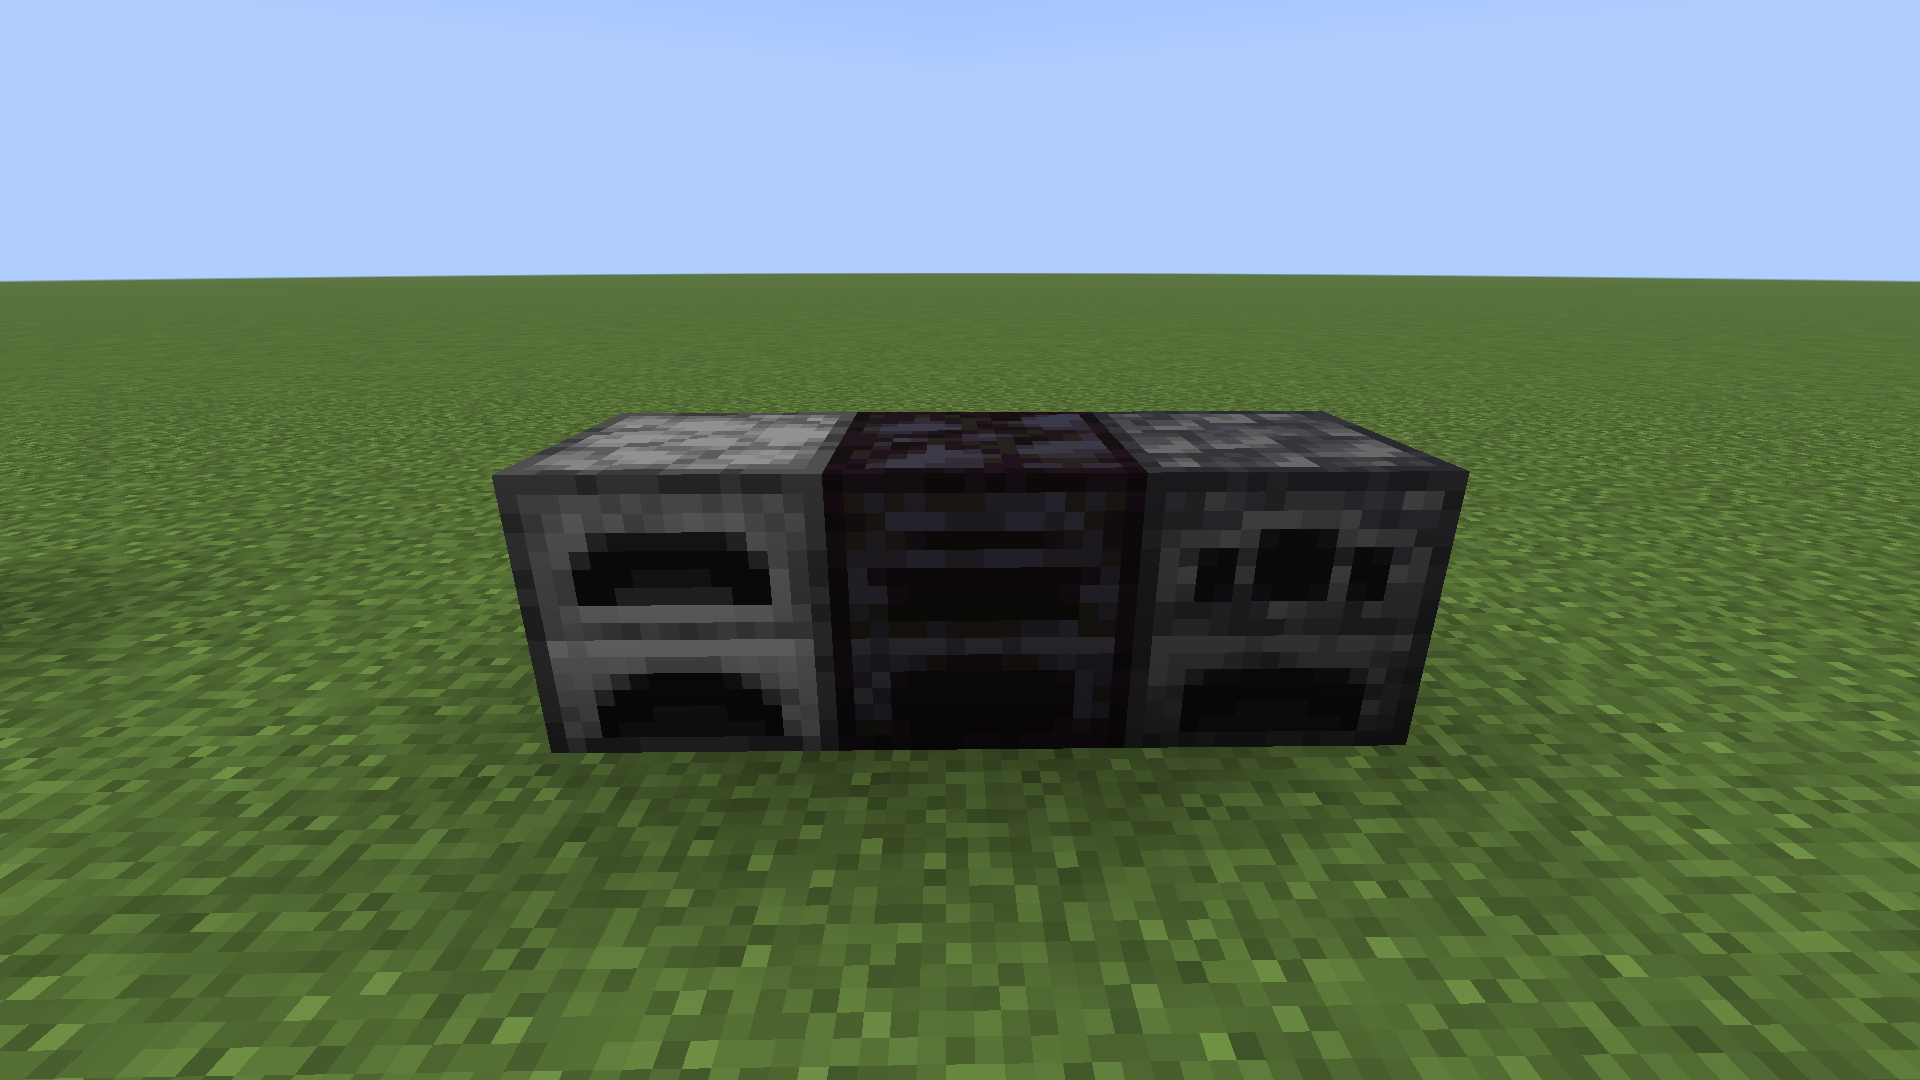
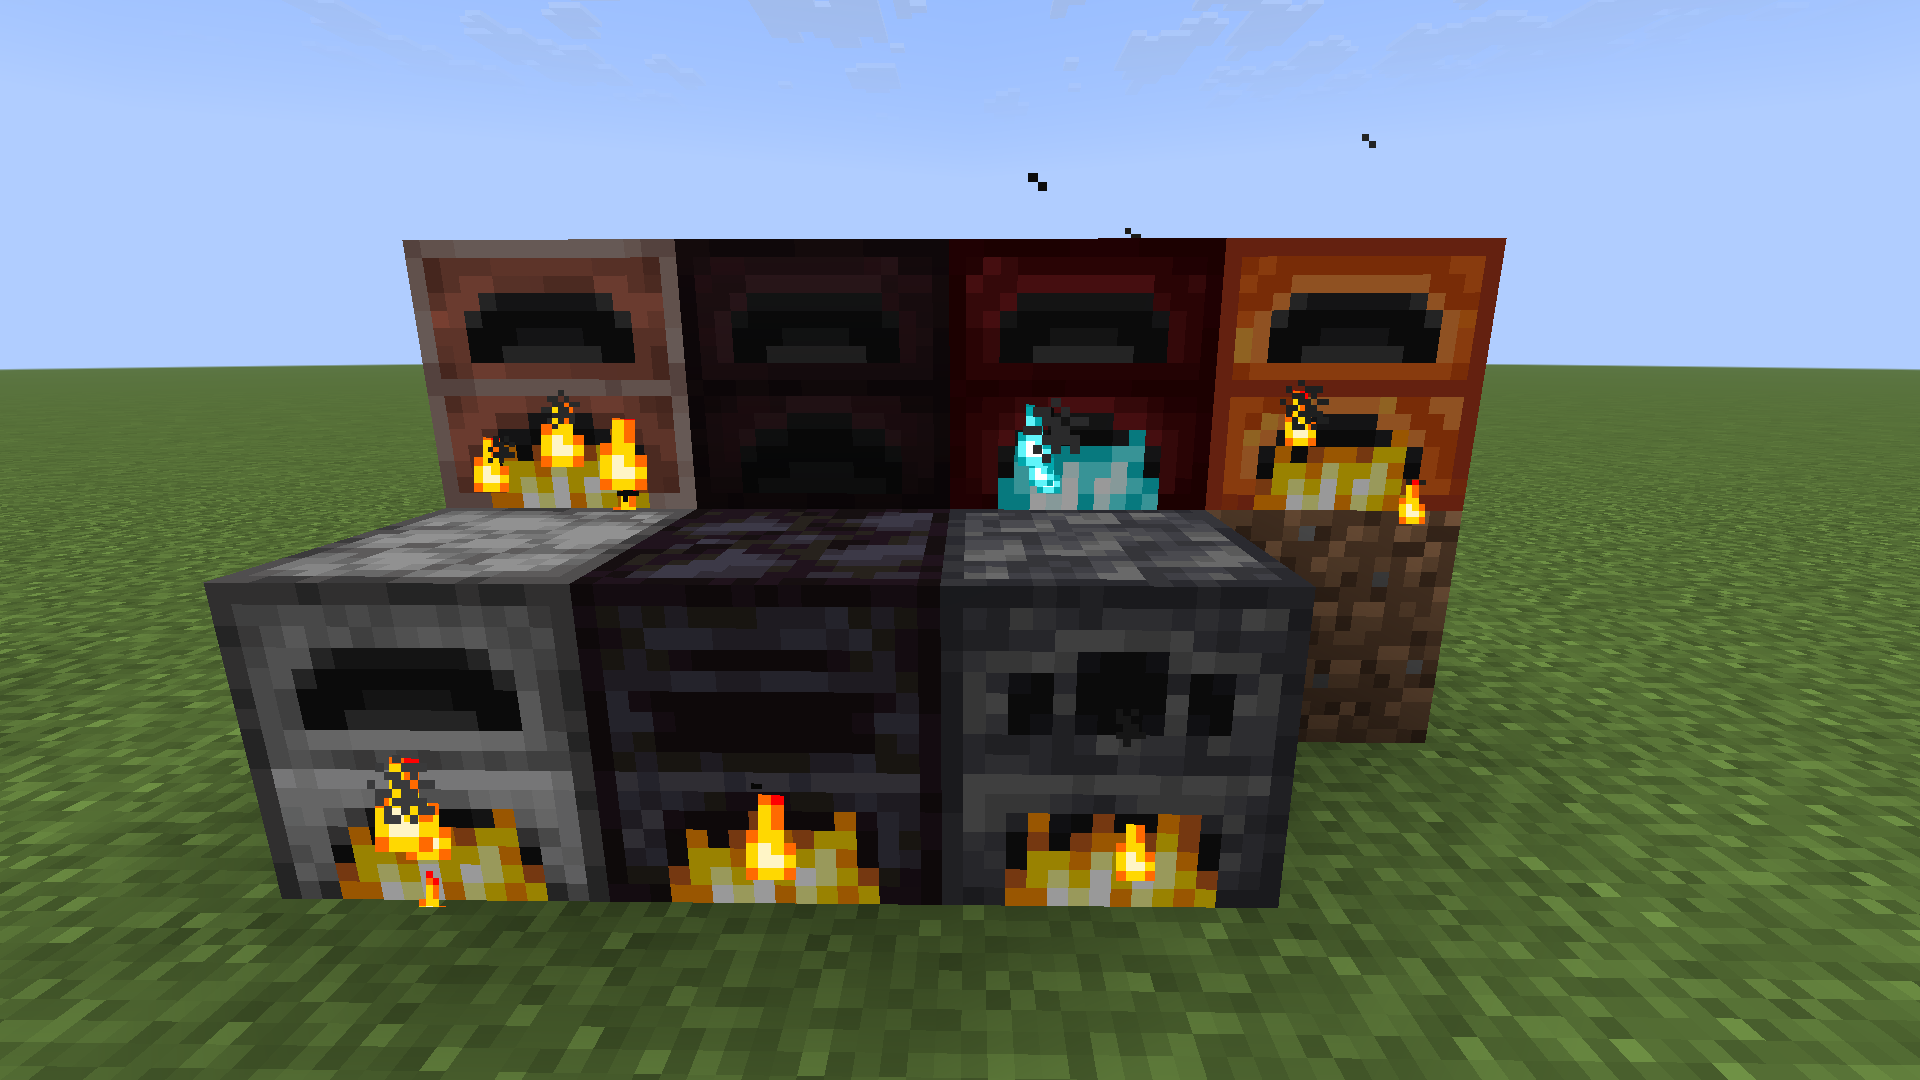
feat: add brick furnaces

diff --git a/src/main/java/com/vinii/v2m/datagen/tag/ModBlockTagProvider.java b/src/main/java/com/vinii/v2m/datagen/tag/ModBlockTagProvider.java
@@ -29,6 +29,7 @@ public class ModBlockTagProvider extends FabricTagsProvider.BlockTagsProvider {
     public static final TagKey<Block> MOD_TRAPPED_CHESTS = create(Registries.BLOCK, "mod_trapped_chests");
     public static final TagKey<Block> MOD_BARRELS = create(Registries.BLOCK, "mod_barrels");
     public static final TagKey<Block> MOD_FURNACES = create(Registries.BLOCK, "mod_furnaces");
+    public static final TagKey<Block> MOD_NETHER_FURNACES = create(Registries.BLOCK, "mod_nether_furnaces");
 
     public static final TagKey<Block> ALL_CRAFTING_TABLES = create(Registries.BLOCK, "all_crafting_tables");
     public static final TagKey<Block> ALL_CHESTS = create(Registries.BLOCK, "all_chests");
@@ -37,8 +38,6 @@ public class ModBlockTagProvider extends FabricTagsProvider.BlockTagsProvider {
     public static final TagKey<Block> ALL_FURNACES = create(Registries.BLOCK, "all_furnaces");
 
     public static final TagKey<Block> MOD_PUMPKINS = create(Registries.BLOCK, "mod_pumpkins");
-
-//    public static final TagKey<Entity> MOD_ZOMBIES = create(Registries., "mod_zombies");
 
     @Override
     protected void addTags(HolderLookup.@NonNull Provider wrapperLookup) {
@@ -122,7 +121,17 @@ public class ModBlockTagProvider extends FabricTagsProvider.BlockTagsProvider {
 
         valueLookupBuilder(MOD_FURNACES)
             .add(ModBlocks.BLACKSTONE_FURNACE)
-            .add(ModBlocks.DEEPSLATE_FURNACE);
+            .add(ModBlocks.DEEPSLATE_FURNACE)
+            .add(ModBlocks.BRICK_FURNACE)
+            .add(ModBlocks.NETHER_BRICK_FURNACE)
+            .add(ModBlocks.RED_NETHER_BRICK_FURNACE)
+            .add(ModBlocks.RESIN_BRICK_FURNACE)
+        ;
+
+        valueLookupBuilder(MOD_NETHER_FURNACES)
+            .add(ModBlocks.NETHER_BRICK_FURNACE)
+            .add(ModBlocks.RED_NETHER_BRICK_FURNACE)
+        ;
 
         // Vanilla
 

diff --git a/src/main/java/com/vinii/v2m/datagen/translation/TranslationProvider.java b/src/main/java/com/vinii/v2m/datagen/translation/TranslationProvider.java
@@ -103,6 +103,10 @@ public abstract class TranslationProvider extends FabricLanguageProvider {
 
     protected String BLACKSTONE_FURNACE = "Blackstone Furnace";
     protected String DEEPSLATE_FURNACE = "Deepslate Furnace";
+    protected String BRICK_FURNACE = "Brick Furnace";
+    protected String NETHER_BRICK_FURNACE = "Nether Brick Furnace";
+    protected String RED_NETHER_BRICK_FURNACE = "Red Nether Brick Furnace";
+    protected String RESIN_BRICK_FURNACE = "Resin Brick Furnace";
 
     // Config keys
     protected String CONFIG_TITLE = "Vinii's Variants Mod Configuration";
@@ -287,9 +291,17 @@ public abstract class TranslationProvider extends FabricLanguageProvider {
         // Furnaces
         translationBuilder.add("container.v2m.blackstone_furnace", BLACKSTONE_FURNACE);
         translationBuilder.add("container.v2m.deepslate_furnace", DEEPSLATE_FURNACE);
+        translationBuilder.add("container.v2m.brick_furnace", BRICK_FURNACE);
+        translationBuilder.add("container.v2m.nether_brick_furnace", NETHER_BRICK_FURNACE);
+        translationBuilder.add("container.v2m.red_nether_brick_furnace", RED_NETHER_BRICK_FURNACE);
+        translationBuilder.add("container.v2m.resin_brick_furnace", RESIN_BRICK_FURNACE);
         // Item
         translationBuilder.add("block.v2m.blackstone_furnace", BLACKSTONE_FURNACE);
         translationBuilder.add("block.v2m.deepslate_furnace", DEEPSLATE_FURNACE);
+        translationBuilder.add("block.v2m.brick_furnace", BRICK_FURNACE);
+        translationBuilder.add("block.v2m.nether_brick_furnace", NETHER_BRICK_FURNACE);
+        translationBuilder.add("block.v2m.red_nether_brick_furnace", RED_NETHER_BRICK_FURNACE);
+        translationBuilder.add("block.v2m.resin_brick_furnace", RESIN_BRICK_FURNACE);
 
         // Config
         translationBuilder.add("config.v2m.title", CONFIG_TITLE);

diff --git a/src/main/java/com/vinii/v2m/mixin/FurnaceBlockMixin.java b/src/main/java/com/vinii/v2m/mixin/FurnaceBlockMixin.java
@@ -1,0 +1,35 @@
+package com.vinii.v2m.mixin;
+
+import com.llamalad7.mixinextras.injector.wrapoperation.Operation;
+import com.llamalad7.mixinextras.injector.wrapoperation.WrapOperation;
+import com.vinii.v2m.datagen.tag.ModBlockTagProvider;
+import net.minecraft.core.particles.ParticleOptions;
+import net.minecraft.core.particles.ParticleTypes;
+import net.minecraft.world.level.Level;
+import net.minecraft.world.level.block.AbstractFurnaceBlock;
+import net.minecraft.world.level.block.FurnaceBlock;
+import org.spongepowered.asm.mixin.Mixin;
+import org.spongepowered.asm.mixin.injection.At;
+
+@Mixin(FurnaceBlock.class)
+public abstract class FurnaceBlockMixin extends AbstractFurnaceBlock {
+    protected FurnaceBlockMixin(Properties properties) {
+        super(properties);
+    }
+
+    @WrapOperation(
+        method = "animateTick",
+        at = @At(
+            value = "INVOKE",
+            target = "Lnet/minecraft/world/level/Level;addParticle(Lnet/minecraft/core/particles/ParticleOptions;DDDDDD)V"
+        )
+    )
+    private void replaceFlameParticles(Level instance, ParticleOptions particle, double x, double y, double z, double xd, double yd, double zd, Operation<Void> original) {
+        if (particle.getType() == ParticleTypes.FLAME && this.asBlock().defaultBlockState().is(ModBlockTagProvider.MOD_NETHER_FURNACES)) {
+            original.call(instance, ParticleTypes.SOUL_FIRE_FLAME, x, y, z, xd, yd, zd);
+            return;
+        }
+
+        original.call(instance, particle, x, y, z, xd, yd, zd);
+    }
+}

diff --git a/src/main/java/com/vinii/v2m/block/ModBlocks.java b/src/main/java/com/vinii/v2m/block/ModBlocks.java
@@ -93,6 +93,10 @@ public class ModBlocks {
     // STONE is vanilla but modified textures name and recipe
     public static final Block BLACKSTONE_FURNACE = registerFurnace("blackstone_furnace", MapColor.COLOR_BLACK);
     public static final Block DEEPSLATE_FURNACE = registerFurnace("deepslate_furnace", MapColor.DEEPSLATE);
+    public static final Block BRICK_FURNACE = registerFurnace("brick_furnace", MapColor.COLOR_RED);
+    public static final Block NETHER_BRICK_FURNACE = registerFurnace("nether_brick_furnace", MapColor.NETHER);
+    public static final Block RED_NETHER_BRICK_FURNACE = registerFurnace("red_nether_brick_furnace", MapColor.NETHER);
+    public static final Block RESIN_BRICK_FURNACE = registerFurnace("resin_brick_furnace", MapColor.TERRACOTTA_ORANGE);
 
     public static Block registerPalePumpkin(String name, Function<BlockBehaviour.Properties, Block> factory) {
         BlockBehaviour.Properties properties = BlockBehaviour.Properties.of()

diff --git a/src/main/java/com/vinii/v2m/datagen/ModRecipeProvider.java b/src/main/java/com/vinii/v2m/datagen/ModRecipeProvider.java
@@ -91,6 +91,10 @@ public class ModRecipeProvider extends FabricRecipeProvider {
                 // NOTE: vanilla furnace is on the same group, via JSON
                 furnaceBuilder(ModBlocks.BLACKSTONE_FURNACE, Items.BLACKSTONE);
                 furnaceBuilder(ModBlocks.DEEPSLATE_FURNACE, Items.COBBLED_DEEPSLATE);
+                furnaceBuilder(ModBlocks.BRICK_FURNACE, Items.BRICKS);
+                furnaceBuilder(ModBlocks.NETHER_BRICK_FURNACE, Items.NETHER_BRICKS);
+                furnaceBuilder(ModBlocks.RED_NETHER_BRICK_FURNACE, Items.RED_NETHER_BRICKS);
+                furnaceBuilder(ModBlocks.RESIN_BRICK_FURNACE, Items.RESIN_BRICKS);
 
                 // Vanilla extended recipes
                 chestBoatBuilder(Items.OAK_CHEST_BOAT, Items.OAK_BOAT);

diff --git a/src/main/java/com/vinii/v2m/datagen/ModModelProvider.java b/src/main/java/com/vinii/v2m/datagen/ModModelProvider.java
@@ -96,6 +96,10 @@ public class ModModelProvider extends FabricModelProvider {
 
         createFurnace(blockModelGenerators, ModBlocks.BLACKSTONE_FURNACE);
         createFurnace(blockModelGenerators, ModBlocks.DEEPSLATE_FURNACE);
+        createFurnace(blockModelGenerators, ModBlocks.BRICK_FURNACE);
+        createFurnace(blockModelGenerators, ModBlocks.NETHER_BRICK_FURNACE);
+        createFurnace(blockModelGenerators, ModBlocks.RED_NETHER_BRICK_FURNACE);
+        createFurnace(blockModelGenerators, ModBlocks.RESIN_BRICK_FURNACE);
     }
 
     public Identifier makePathableIdentifier(Block block, String pathPrefix, String suffix) {

diff --git a/src/main/java/com/vinii/v2m/block/ModBlockEntities.java b/src/main/java/com/vinii/v2m/block/ModBlockEntities.java
@@ -69,7 +69,11 @@ public class ModBlockEntities {
         "furnace",
         ModFurnaceBlockEntity::new,
         ModBlocks.DEEPSLATE_FURNACE,
-        ModBlocks.BLACKSTONE_FURNACE
+        ModBlocks.BLACKSTONE_FURNACE,
+        ModBlocks.BRICK_FURNACE,
+        ModBlocks.NETHER_BRICK_FURNACE,
+        ModBlocks.RED_NETHER_BRICK_FURNACE,
+        ModBlocks.RESIN_BRICK_FURNACE
     );
 
     public static <T extends BlockEntity> BlockEntityType<T> register(

diff --git a/src/main/java/com/vinii/v2m/datagen/loot_table/ModBlockLootTableProvider.java b/src/main/java/com/vinii/v2m/datagen/loot_table/ModBlockLootTableProvider.java
@@ -73,5 +73,9 @@ public class ModBlockLootTableProvider extends FabricBlockLootSubProvider {
 
         dropSelf(ModBlocks.BLACKSTONE_FURNACE);
         dropSelf(ModBlocks.DEEPSLATE_FURNACE);
+        dropSelf(ModBlocks.BRICK_FURNACE);
+        dropSelf(ModBlocks.NETHER_BRICK_FURNACE);
+        dropSelf(ModBlocks.RED_NETHER_BRICK_FURNACE);
+        dropSelf(ModBlocks.RESIN_BRICK_FURNACE);
     }
 }
